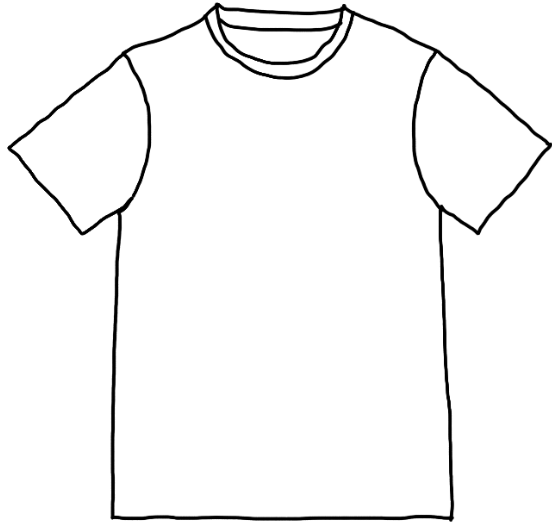
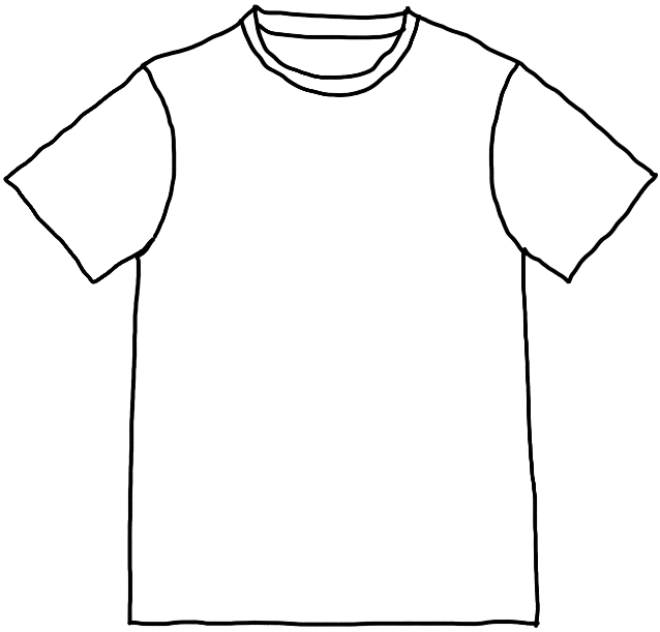
update equipacion

diff --git a/css/equipacion.css b/css/equipacion.css
@@ -168,7 +168,6 @@ header {
 
 .tool-btn.active {
   opacity: 1;
-  background: rgba(255, 55, 115, 0.1);
 }
 
 .tool-icon {
@@ -208,14 +207,14 @@ header {
   aspect-ratio: 1;
 }
 
-.shirt-img {
+.shirt-bg {
   position: absolute;
   inset: 0;
   width: 100%;
   height: 100%;
   object-fit: contain;
-  pointer-events: none;
   z-index: 1;
+  pointer-events: none;
 }
 
 #paintCanvas {
@@ -225,6 +224,16 @@ header {
   height: 100%;
   z-index: 2;
   cursor: crosshair;
+}
+
+.shirt-overlay {
+  position: absolute;
+  inset: 0;
+  width: 100%;
+  height: 100%;
+  object-fit: contain;
+  z-index: 3;
+  pointer-events: none;
 }
 
 /* ── PALETA DE COLORES ── */

diff --git a/equipacion.html b/equipacion.html
@@ -82,8 +82,17 @@
 
         <div class="shirt-area">
           <div class="shirt-container">
-            <img class="shirt-img" src="./images/camiseta.png" alt="camiseta" />
+            <img
+              class="shirt-bg"
+              src="./images/camiseta.png"
+              alt="camiseta fondo"
+            />
             <canvas id="paintCanvas"></canvas>
+            <img
+              class="shirt-overlay"
+              src="./images/camiseta2.png"
+              alt="camiseta bordes"
+            />
           </div>
 
           <div class="palette-area">
